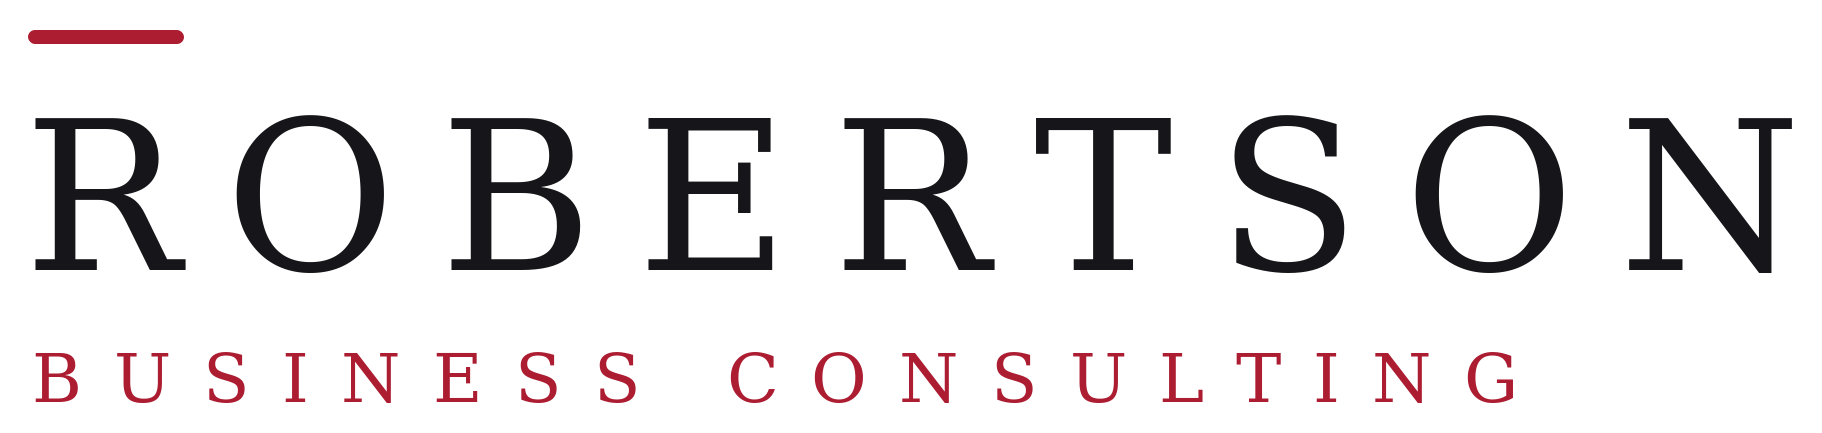
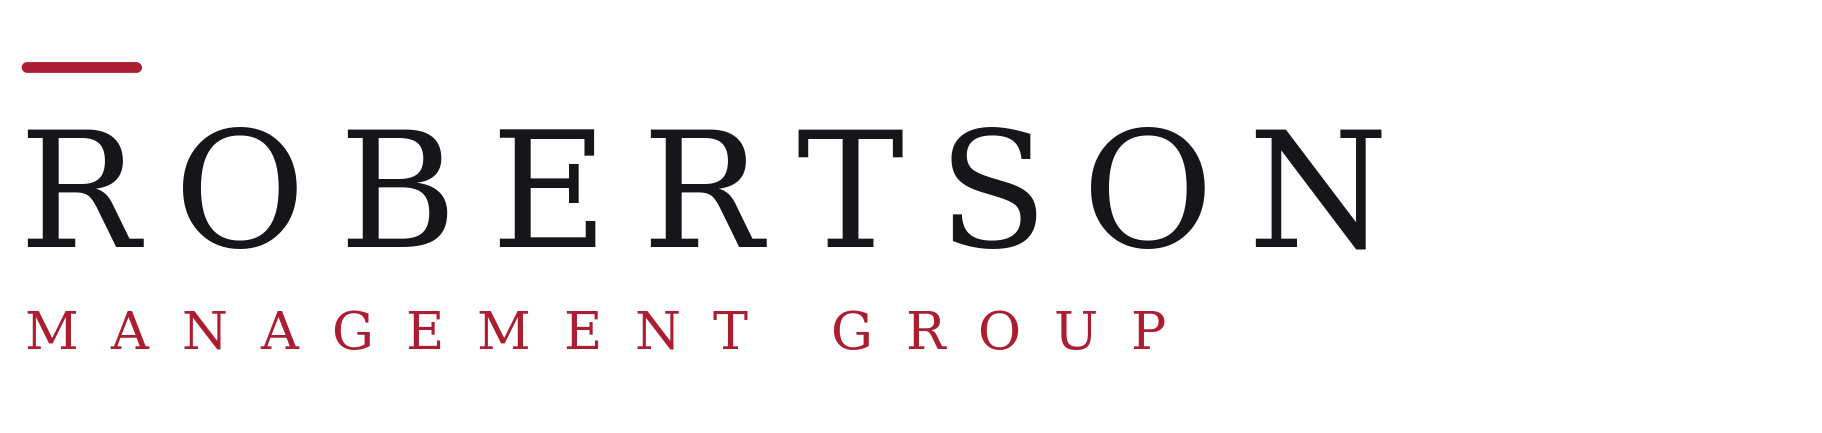
Rebrand to Robertson Management Group; move to robertsongroup.ca

diff --git a/book-a-call.html b/book-a-call.html
@@ -6,9 +6,9 @@ permalink: "/book-a-call.html"
 <head>
 <meta charset="utf-8">
 <meta name="viewport" content="width=device-width, initial-scale=1">
-<title>Book a Discovery Call | Robertson Business Consulting | Metro Vancouver</title>
+<title>Book a Discovery Call | Robertson Management Group | Metro Vancouver</title>
 <meta name="description" content="Book a discovery call with James Robertson. A straight conversation about what's going on in your business and whether I can help. No pitch, no obligation.">
-<link rel="canonical" href="https://www.robertsonconsulting.ca/book-a-call.html">
+<link rel="canonical" href="https://www.robertsongroup.ca/book-a-call.html">
 <link rel="preconnect" href="https://fonts.googleapis.com">
 <link rel="preconnect" href="https://fonts.gstatic.com" crossorigin>
 <link href="https://fonts.googleapis.com/css2?family=DM+Serif+Display:ital@0;1&family=Inter:wght@400;500;600;700&family=Space+Grotesk:wght@500;600;700&display=swap" rel="stylesheet">
@@ -18,8 +18,8 @@ permalink: "/book-a-call.html"
 
 <header class="solid">
   <div class="wrap nav">
-    <a href="index.html" aria-label="Robertson Business Consulting">
-      <svg class="wm" viewBox="0 0 600 96"><rect x="6" y="14" width="11" height="68" rx="5" fill="#AC1D32"/><text x="58" y="74" text-anchor="middle" font-family="'DM Serif Display',serif" font-size="94" fill="#201D1C">R</text><text x="122" y="50" font-family="Georgia,serif" font-size="54" letter-spacing="11.4" fill="#201D1C">ROBERTSON</text><text x="124" y="82" font-family="Georgia,serif" font-size="17.6" letter-spacing="8.3" fill="#AC1D32">BUSINESS CONSULTING</text></svg>
+    <a href="index.html" aria-label="Robertson Management Group">
+      <svg class="wm" viewBox="0 0 600 96"><rect x="6" y="14" width="11" height="68" rx="5" fill="#AC1D32"/><text x="58" y="74" text-anchor="middle" font-family="'DM Serif Display',serif" font-size="94" fill="#201D1C">R</text><text x="122" y="50" font-family="Georgia,serif" font-size="54" letter-spacing="11.4" fill="#201D1C">ROBERTSON</text><text x="124" y="82" font-family="Georgia,serif" font-size="17.6" letter-spacing="11" fill="#AC1D32">MANAGEMENT GROUP</text></svg>
     </a>
     <nav class="links">
       <a class="lnk" href="how-i-work.html">How I Work</a><a class="lnk" href="about.html">About</a><a class="lnk" href="insights/index.html">Insights</a>
@@ -48,7 +48,7 @@ permalink: "/book-a-call.html"
           <li>A sense of what working together would actually look like.</li>
           <li>No pitch, no obligation, and no hard sell at the end.</li>
         </ul>
-        <p style="margin-top:26px;color:var(--ink-soft)">Prefer email first? Reach me at <a href="mailto:james@robertsonconsulting.ca" style="color:var(--crimson);font-weight:600">james@robertsonconsulting.ca</a>.</p>
+        <p style="margin-top:26px;color:var(--ink-soft)">Prefer email first? Reach me at <a href="mailto:james@robertsongroup.ca" style="color:var(--crimson);font-weight:600">james@robertsongroup.ca</a>.</p>
       </div>
       <div class="book-card">
         <h3>Pick a time</h3>
@@ -67,14 +67,14 @@ permalink: "/book-a-call.html"
   <div class="wrap">
     <div class="foot-grid">
       <div>
-        <svg class="wm" viewBox="0 0 600 96" style="height:40px"><rect x="6" y="14" width="11" height="68" rx="5" fill="#AC1D32"/><text x="58" y="74" text-anchor="middle" font-family="'DM Serif Display',serif" font-size="94" fill="#201D1C">R</text><text x="122" y="50" font-family="Georgia,serif" font-size="54" letter-spacing="11.4" fill="#201D1C">ROBERTSON</text><text x="124" y="82" font-family="Georgia,serif" font-size="17.6" letter-spacing="8.3" fill="#AC1D32">BUSINESS CONSULTING</text></svg>
+        <svg class="wm" viewBox="0 0 600 96" style="height:40px"><rect x="6" y="14" width="11" height="68" rx="5" fill="#AC1D32"/><text x="58" y="74" text-anchor="middle" font-family="'DM Serif Display',serif" font-size="94" fill="#201D1C">R</text><text x="122" y="50" font-family="Georgia,serif" font-size="54" letter-spacing="11.4" fill="#201D1C">ROBERTSON</text><text x="124" y="82" font-family="Georgia,serif" font-size="17.6" letter-spacing="11" fill="#AC1D32">MANAGEMENT GROUP</text></svg>
         <p style="margin-top:16px;max-width:30em">Strategy, coaching, and structure for owner-operated companies across Metro Vancouver and the Fraser Valley.</p>
         <p class="tag">Run your business. Instead of it running you.</p>
       </div>
       <div><h4>Explore</h4><ul><li><a href="how-i-work.html">How I Work</a></li><li><a href="about.html">About</a></li><li><a href="insights/index.html">Insights</a></li><li><a href="book-a-call.html">Book a call</a></li></ul></div>
-      <div><h4>Get in touch</h4><ul><li><a href="mailto:james@robertsonconsulting.ca">james@robertsonconsulting.ca</a></li><li>Langley, BC</li><li>Metro Vancouver &amp; Fraser Valley</li></ul></div>
+      <div><h4>Get in touch</h4><ul><li><a href="mailto:james@robertsongroup.ca">james@robertsongroup.ca</a></li><li>Langley, BC</li><li>Metro Vancouver &amp; Fraser Valley</li></ul></div>
     </div>
-    <div class="foot-bottom"><span>&copy; 2026 Robertson Business Consulting. All rights reserved.</span><span>robertsonconsulting.ca</span></div>
+    <div class="foot-bottom"><span>&copy; 2026 Robertson Management Group. All rights reserved.</span><span>robertsongroup.ca</span></div>
   </div>
 </footer>
 

diff --git a/insights/index.html b/insights/index.html
@@ -3,14 +3,14 @@
 <head>
 <meta charset="utf-8">
 <meta name="viewport" content="width=device-width, initial-scale=1">
-<title>Insights | Plain Thinking on Running a Business | Robertson Business Consulting</title>
+<title>Insights | Plain Thinking on Running a Business | Robertson Management Group</title>
 <meta name="description" content="Practical writing on strategy, structure, and the realities of running an owner-operated business. Written from the owner's seat, not the lecture hall.">
 <meta property="og:type" content="website">
-<meta property="og:title" content="Insights | Robertson Business Consulting">
+<meta property="og:title" content="Insights | Robertson Management Group">
 <meta property="og:description" content="Practical writing on strategy, structure, and the realities of running a business.">
 <meta property="og:locale" content="en_CA">
-<meta property="og:url" content="https://www.robertsonconsulting.ca/insights/">
-<link rel="canonical" href="https://www.robertsonconsulting.ca/insights/">
+<meta property="og:url" content="https://www.robertsongroup.ca/insights/">
+<link rel="canonical" href="https://www.robertsongroup.ca/insights/">
 <link rel="preconnect" href="https://fonts.googleapis.com">
 <link rel="preconnect" href="https://fonts.gstatic.com" crossorigin>
 <link href="https://fonts.googleapis.com/css2?family=DM+Serif+Display:ital@0;1&family=Inter:wght@400;500;600;700&family=Space+Grotesk:wght@500;600;700&display=swap" rel="stylesheet">
@@ -20,8 +20,8 @@
 
 <header class="solid">
   <div class="wrap nav">
-    <a href="/" aria-label="Robertson Business Consulting">
-      <svg class="wm" viewBox="0 0 600 96"><rect x="6" y="14" width="11" height="68" rx="5" fill="#AC1D32"/><text x="58" y="74" text-anchor="middle" font-family="'DM Serif Display',serif" font-size="94" fill="#201D1C">R</text><text x="122" y="50" font-family="Georgia,serif" font-size="54" letter-spacing="11.4" fill="#201D1C">ROBERTSON</text><text x="124" y="82" font-family="Georgia,serif" font-size="17.6" letter-spacing="8.3" fill="#AC1D32">BUSINESS CONSULTING</text></svg>
+    <a href="/" aria-label="Robertson Management Group">
+      <svg class="wm" viewBox="0 0 600 96"><rect x="6" y="14" width="11" height="68" rx="5" fill="#AC1D32"/><text x="58" y="74" text-anchor="middle" font-family="'DM Serif Display',serif" font-size="94" fill="#201D1C">R</text><text x="122" y="50" font-family="Georgia,serif" font-size="54" letter-spacing="11.4" fill="#201D1C">ROBERTSON</text><text x="124" y="82" font-family="Georgia,serif" font-size="17.6" letter-spacing="11" fill="#AC1D32">MANAGEMENT GROUP</text></svg>
     </a>
     <nav class="links">
       <a class="lnk" href="/how-i-work.html">How I Work</a><a class="lnk" href="/about.html">About</a><a class="lnk active" href="/insights/">Insights</a>
@@ -65,14 +65,14 @@
   <div class="wrap">
     <div class="foot-grid">
       <div>
-        <svg class="wm" viewBox="0 0 600 96" style="height:40px"><rect x="6" y="14" width="11" height="68" rx="5" fill="#AC1D32"/><text x="58" y="74" text-anchor="middle" font-family="'DM Serif Display',serif" font-size="94" fill="#201D1C">R</text><text x="122" y="50" font-family="Georgia,serif" font-size="54" letter-spacing="11.4" fill="#201D1C">ROBERTSON</text><text x="124" y="82" font-family="Georgia,serif" font-size="17.6" letter-spacing="8.3" fill="#AC1D32">BUSINESS CONSULTING</text></svg>
+        <svg class="wm" viewBox="0 0 600 96" style="height:40px"><rect x="6" y="14" width="11" height="68" rx="5" fill="#AC1D32"/><text x="58" y="74" text-anchor="middle" font-family="'DM Serif Display',serif" font-size="94" fill="#201D1C">R</text><text x="122" y="50" font-family="Georgia,serif" font-size="54" letter-spacing="11.4" fill="#201D1C">ROBERTSON</text><text x="124" y="82" font-family="Georgia,serif" font-size="17.6" letter-spacing="11" fill="#AC1D32">MANAGEMENT GROUP</text></svg>
         <p style="margin-top:16px;max-width:30em">Strategy, coaching, and structure for owner-operated companies across Metro Vancouver and the Fraser Valley.</p>
         <p class="tag">Run your business. Instead of it running you.</p>
       </div>
       <div><h4>Explore</h4><ul><li><a href="/how-i-work.html">How I Work</a></li><li><a href="/about.html">About</a></li><li><a href="/insights/">Insights</a></li><li><a href="/book-a-call.html">Book a call</a></li></ul></div>
-      <div><h4>Get in touch</h4><ul><li><a href="mailto:james@robertsonconsulting.ca">james@robertsonconsulting.ca</a></li><li>Langley, BC</li><li>Metro Vancouver &amp; Fraser Valley</li></ul></div>
+      <div><h4>Get in touch</h4><ul><li><a href="mailto:james@robertsongroup.ca">james@robertsongroup.ca</a></li><li>Langley, BC</li><li>Metro Vancouver &amp; Fraser Valley</li></ul></div>
     </div>
-    <div class="foot-bottom"><span>&copy; 2026 Robertson Business Consulting. All rights reserved.</span><span>robertsonconsulting.ca</span></div>
+    <div class="foot-bottom"><span>&copy; 2026 Robertson Management Group. All rights reserved.</span><span>robertsongroup.ca</span></div>
   </div>
 </footer>
 

diff --git a/how-i-work.html b/how-i-work.html
@@ -6,9 +6,9 @@ permalink: "/how-i-work.html"
 <head>
 <meta charset="utf-8">
 <meta name="viewport" content="width=device-width, initial-scale=1">
-<title>How I Work | Business Operating Framework, Coaching &amp; Fractional Leadership | Robertson Business Consulting</title>
+<title>How I Work | Business Operating Framework, Coaching &amp; Fractional Leadership | Robertson Management Group</title>
 <meta name="description" content="How I work with owner-operated businesses: a custom Business Operating Framework, executive coaching, and fractional leadership. Assessment, strategy, and the structure your business runs on.">
-<link rel="canonical" href="https://www.robertsonconsulting.ca/how-i-work.html">
+<link rel="canonical" href="https://www.robertsongroup.ca/how-i-work.html">
 <link rel="preconnect" href="https://fonts.googleapis.com">
 <link rel="preconnect" href="https://fonts.gstatic.com" crossorigin>
 <link href="https://fonts.googleapis.com/css2?family=DM+Serif+Display:ital@0;1&family=Inter:wght@400;500;600;700&family=Space+Grotesk:wght@500;600;700&display=swap" rel="stylesheet">
@@ -18,8 +18,8 @@ permalink: "/how-i-work.html"
 
 <header class="solid">
   <div class="wrap nav">
-    <a href="index.html" aria-label="Robertson Business Consulting">
-      <svg class="wm" viewBox="0 0 600 96"><rect x="6" y="14" width="11" height="68" rx="5" fill="#AC1D32"/><text x="58" y="74" text-anchor="middle" font-family="'DM Serif Display',serif" font-size="94" fill="#201D1C">R</text><text x="122" y="50" font-family="Georgia,serif" font-size="54" letter-spacing="11.4" fill="#201D1C">ROBERTSON</text><text x="124" y="82" font-family="Georgia,serif" font-size="17.6" letter-spacing="8.3" fill="#AC1D32">BUSINESS CONSULTING</text></svg>
+    <a href="index.html" aria-label="Robertson Management Group">
+      <svg class="wm" viewBox="0 0 600 96"><rect x="6" y="14" width="11" height="68" rx="5" fill="#AC1D32"/><text x="58" y="74" text-anchor="middle" font-family="'DM Serif Display',serif" font-size="94" fill="#201D1C">R</text><text x="122" y="50" font-family="Georgia,serif" font-size="54" letter-spacing="11.4" fill="#201D1C">ROBERTSON</text><text x="124" y="82" font-family="Georgia,serif" font-size="17.6" letter-spacing="11" fill="#AC1D32">MANAGEMENT GROUP</text></svg>
     </a>
     <nav class="links">
       <a class="lnk active" href="how-i-work.html">How I Work</a><a class="lnk" href="about.html">About</a><a class="lnk" href="insights/index.html">Insights</a>
@@ -114,14 +114,14 @@ permalink: "/how-i-work.html"
   <div class="wrap">
     <div class="foot-grid">
       <div>
-        <svg class="wm" viewBox="0 0 600 96" style="height:40px"><rect x="6" y="14" width="11" height="68" rx="5" fill="#AC1D32"/><text x="58" y="74" text-anchor="middle" font-family="'DM Serif Display',serif" font-size="94" fill="#201D1C">R</text><text x="122" y="50" font-family="Georgia,serif" font-size="54" letter-spacing="11.4" fill="#201D1C">ROBERTSON</text><text x="124" y="82" font-family="Georgia,serif" font-size="17.6" letter-spacing="8.3" fill="#AC1D32">BUSINESS CONSULTING</text></svg>
+        <svg class="wm" viewBox="0 0 600 96" style="height:40px"><rect x="6" y="14" width="11" height="68" rx="5" fill="#AC1D32"/><text x="58" y="74" text-anchor="middle" font-family="'DM Serif Display',serif" font-size="94" fill="#201D1C">R</text><text x="122" y="50" font-family="Georgia,serif" font-size="54" letter-spacing="11.4" fill="#201D1C">ROBERTSON</text><text x="124" y="82" font-family="Georgia,serif" font-size="17.6" letter-spacing="11" fill="#AC1D32">MANAGEMENT GROUP</text></svg>
         <p style="margin-top:16px;max-width:30em">Strategy, coaching, and structure for owner-operated companies across Metro Vancouver and the Fraser Valley.</p>
         <p class="tag">Run your business. Instead of it running you.</p>
       </div>
       <div><h4>Explore</h4><ul><li><a href="how-i-work.html">How I Work</a></li><li><a href="about.html">About</a></li><li><a href="insights/index.html">Insights</a></li><li><a href="book-a-call.html">Book a call</a></li></ul></div>
-      <div><h4>Get in touch</h4><ul><li><a href="mailto:james@robertsonconsulting.ca">james@robertsonconsulting.ca</a></li><li>Langley, BC</li><li>Metro Vancouver &amp; Fraser Valley</li></ul></div>
+      <div><h4>Get in touch</h4><ul><li><a href="mailto:james@robertsongroup.ca">james@robertsongroup.ca</a></li><li>Langley, BC</li><li>Metro Vancouver &amp; Fraser Valley</li></ul></div>
     </div>
-    <div class="foot-bottom"><span>&copy; 2026 Robertson Business Consulting. All rights reserved.</span><span>robertsonconsulting.ca</span></div>
+    <div class="foot-bottom"><span>&copy; 2026 Robertson Management Group. All rights reserved.</span><span>robertsongroup.ca</span></div>
   </div>
 </footer>
 

diff --git a/_includes/post.html b/_includes/post.html
@@ -3,15 +3,15 @@
 <head>
 <meta charset="utf-8">
 <meta name="viewport" content="width=device-width, initial-scale=1">
-<title>{{ title }} | Robertson Business Consulting</title>
+<title>{{ title }} | Robertson Management Group</title>
 <meta name="description" content="{{ excerpt }}">
 <meta property="og:type" content="article">
 <meta property="og:title" content="{{ title }}">
 <meta property="og:description" content="{{ excerpt }}">
 <meta property="og:locale" content="en_CA">
-<meta property="og:url" content="https://www.robertsonconsulting.ca{{ page.url }}">
+<meta property="og:url" content="https://www.robertsongroup.ca{{ page.url }}">
 <meta property="article:published_time" content="{{ page.date }}">
-<link rel="canonical" href="https://www.robertsonconsulting.ca{{ page.url }}">
+<link rel="canonical" href="https://www.robertsongroup.ca{{ page.url }}">
 <link rel="preconnect" href="https://fonts.googleapis.com">
 <link rel="preconnect" href="https://fonts.gstatic.com" crossorigin>
 <link href="https://fonts.googleapis.com/css2?family=DM+Serif+Display:ital@0;1&family=Inter:wght@400;500;600;700&family=Space+Grotesk:wght@500;600;700&display=swap" rel="stylesheet">
@@ -21,8 +21,8 @@
 
 <header class="solid">
   <div class="wrap nav">
-    <a href="/" aria-label="Robertson Business Consulting">
-      <svg class="wm" viewBox="0 0 600 96"><rect x="6" y="14" width="11" height="68" rx="5" fill="#AC1D32"/><text x="58" y="74" text-anchor="middle" font-family="'DM Serif Display',serif" font-size="94" fill="#201D1C">R</text><text x="122" y="50" font-family="Georgia,serif" font-size="54" letter-spacing="11.4" fill="#201D1C">ROBERTSON</text><text x="124" y="82" font-family="Georgia,serif" font-size="17.6" letter-spacing="8.3" fill="#AC1D32">BUSINESS CONSULTING</text></svg>
+    <a href="/" aria-label="Robertson Management Group">
+      <svg class="wm" viewBox="0 0 600 96"><rect x="6" y="14" width="11" height="68" rx="5" fill="#AC1D32"/><text x="58" y="74" text-anchor="middle" font-family="'DM Serif Display',serif" font-size="94" fill="#201D1C">R</text><text x="122" y="50" font-family="Georgia,serif" font-size="54" letter-spacing="11.4" fill="#201D1C">ROBERTSON</text><text x="124" y="82" font-family="Georgia,serif" font-size="17.6" letter-spacing="11" fill="#AC1D32">MANAGEMENT GROUP</text></svg>
     </a>
     <nav class="links">
       <a class="lnk" href="/how-i-work.html">How I Work</a><a class="lnk" href="/about.html">About</a><a class="lnk active" href="/insights/">Insights</a>
@@ -49,14 +49,14 @@
   <div class="wrap">
     <div class="foot-grid">
       <div>
-        <svg class="wm" viewBox="0 0 600 96" style="height:40px"><rect x="6" y="14" width="11" height="68" rx="5" fill="#AC1D32"/><text x="58" y="74" text-anchor="middle" font-family="'DM Serif Display',serif" font-size="94" fill="#201D1C">R</text><text x="122" y="50" font-family="Georgia,serif" font-size="54" letter-spacing="11.4" fill="#201D1C">ROBERTSON</text><text x="124" y="82" font-family="Georgia,serif" font-size="17.6" letter-spacing="8.3" fill="#AC1D32">BUSINESS CONSULTING</text></svg>
+        <svg class="wm" viewBox="0 0 600 96" style="height:40px"><rect x="6" y="14" width="11" height="68" rx="5" fill="#AC1D32"/><text x="58" y="74" text-anchor="middle" font-family="'DM Serif Display',serif" font-size="94" fill="#201D1C">R</text><text x="122" y="50" font-family="Georgia,serif" font-size="54" letter-spacing="11.4" fill="#201D1C">ROBERTSON</text><text x="124" y="82" font-family="Georgia,serif" font-size="17.6" letter-spacing="11" fill="#AC1D32">MANAGEMENT GROUP</text></svg>
         <p style="margin-top:16px;max-width:30em">Strategy, coaching, and structure for owner-operated companies across Metro Vancouver and the Fraser Valley.</p>
         <p class="tag">Run your business. Instead of it running you.</p>
       </div>
       <div><h4>Explore</h4><ul><li><a href="/how-i-work.html">How I Work</a></li><li><a href="/about.html">About</a></li><li><a href="/insights/">Insights</a></li><li><a href="/book-a-call.html">Book a call</a></li></ul></div>
-      <div><h4>Get in touch</h4><ul><li><a href="mailto:james@robertsonconsulting.ca">james@robertsonconsulting.ca</a></li><li>Langley, BC</li><li>Metro Vancouver &amp; Fraser Valley</li></ul></div>
+      <div><h4>Get in touch</h4><ul><li><a href="mailto:james@robertsongroup.ca">james@robertsongroup.ca</a></li><li>Langley, BC</li><li>Metro Vancouver &amp; Fraser Valley</li></ul></div>
     </div>
-    <div class="foot-bottom"><span>&copy; 2026 Robertson Business Consulting. All rights reserved.</span><span>robertsonconsulting.ca</span></div>
+    <div class="foot-bottom"><span>&copy; 2026 Robertson Management Group. All rights reserved.</span><span>robertsongroup.ca</span></div>
   </div>
 </footer>
 

diff --git a/index.html b/index.html
@@ -3,9 +3,9 @@
 <head>
 <meta charset="utf-8">
 <meta name="viewport" content="width=device-width, initial-scale=1">
-<title>Robertson Business Consulting | Business Strategy &amp; Coaching for Owner-Operated Companies | Metro Vancouver</title>
+<title>Robertson Management Group | Business Strategy &amp; Coaching for Owner-Operated Companies | Metro Vancouver</title>
 <meta name="description" content="Business strategy, coaching, and structure for owner-operated companies in Metro Vancouver, Langley, and the Fraser Valley. Led by an owner who built and sold a business through the hardest years a company can face.">
-<link rel="canonical" href="https://www.robertsonconsulting.ca/">
+<link rel="canonical" href="https://www.robertsongroup.ca/">
 <link rel="preconnect" href="https://fonts.googleapis.com">
 <link rel="preconnect" href="https://fonts.gstatic.com" crossorigin>
 <link href="https://fonts.googleapis.com/css2?family=DM+Serif+Display:ital@0;1&family=Inter:wght@400;500;600;700&family=Space+Grotesk:wght@500;600;700&display=swap" rel="stylesheet">
@@ -15,8 +15,8 @@
 
 <header class="over">
   <div class="wrap nav">
-    <a href="index.html" aria-label="Robertson Business Consulting">
-      <svg class="wm" viewBox="0 0 600 96"><rect x="6" y="14" width="11" height="68" rx="5" fill="#AC1D32"/><text x="58" y="74" text-anchor="middle" font-family="'DM Serif Display',serif" font-size="94" fill="#ffffff">R</text><text x="122" y="50" font-family="Georgia,serif" font-size="54" letter-spacing="11.4" fill="#ffffff">ROBERTSON</text><text x="124" y="82" font-family="Georgia,serif" font-size="17.6" letter-spacing="8.3" fill="#E8B9C0">BUSINESS CONSULTING</text></svg>
+    <a href="index.html" aria-label="Robertson Management Group">
+      <svg class="wm" viewBox="0 0 600 96"><rect x="6" y="14" width="11" height="68" rx="5" fill="#AC1D32"/><text x="58" y="74" text-anchor="middle" font-family="'DM Serif Display',serif" font-size="94" fill="#ffffff">R</text><text x="122" y="50" font-family="Georgia,serif" font-size="54" letter-spacing="11.4" fill="#ffffff">ROBERTSON</text><text x="124" y="82" font-family="Georgia,serif" font-size="17.6" letter-spacing="11" fill="#E8B9C0">MANAGEMENT GROUP</text></svg>
     </a>
     <nav class="links">
       <a class="lnk" href="how-i-work.html">How I Work</a><a class="lnk" href="about.html">About</a><a class="lnk" href="insights/index.html">Insights</a>
@@ -166,14 +166,14 @@
   <div class="wrap">
     <div class="foot-grid">
       <div>
-        <svg class="wm" viewBox="0 0 600 96" style="height:40px"><rect x="6" y="14" width="11" height="68" rx="5" fill="#AC1D32"/><text x="58" y="74" text-anchor="middle" font-family="'DM Serif Display',serif" font-size="94" fill="#201D1C">R</text><text x="122" y="50" font-family="Georgia,serif" font-size="54" letter-spacing="11.4" fill="#201D1C">ROBERTSON</text><text x="124" y="82" font-family="Georgia,serif" font-size="17.6" letter-spacing="8.3" fill="#AC1D32">BUSINESS CONSULTING</text></svg>
+        <svg class="wm" viewBox="0 0 600 96" style="height:40px"><rect x="6" y="14" width="11" height="68" rx="5" fill="#AC1D32"/><text x="58" y="74" text-anchor="middle" font-family="'DM Serif Display',serif" font-size="94" fill="#201D1C">R</text><text x="122" y="50" font-family="Georgia,serif" font-size="54" letter-spacing="11.4" fill="#201D1C">ROBERTSON</text><text x="124" y="82" font-family="Georgia,serif" font-size="17.6" letter-spacing="11" fill="#AC1D32">MANAGEMENT GROUP</text></svg>
         <p style="margin-top:16px;max-width:30em">Strategy, coaching, and structure for owner-operated companies across Metro Vancouver and the Fraser Valley.</p>
         <p class="tag">Run your business. Instead of it running you.</p>
       </div>
       <div><h4>Explore</h4><ul><li><a href="how-i-work.html">How I Work</a></li><li><a href="about.html">About</a></li><li><a href="insights/index.html">Insights</a></li><li><a href="book-a-call.html">Book a call</a></li></ul></div>
-      <div><h4>Get in touch</h4><ul><li><a href="mailto:james@robertsonconsulting.ca">james@robertsonconsulting.ca</a></li><li>Langley, BC</li><li>Metro Vancouver &amp; Fraser Valley</li></ul></div>
+      <div><h4>Get in touch</h4><ul><li><a href="mailto:james@robertsongroup.ca">james@robertsongroup.ca</a></li><li>Langley, BC</li><li>Metro Vancouver &amp; Fraser Valley</li></ul></div>
     </div>
-    <div class="foot-bottom"><span>&copy; 2026 Robertson Business Consulting. All rights reserved.</span><span>robertsonconsulting.ca</span></div>
+    <div class="foot-bottom"><span>&copy; 2026 Robertson Management Group. All rights reserved.</span><span>robertsongroup.ca</span></div>
   </div>
 </footer>
 

diff --git a/about.html b/about.html
@@ -8,7 +8,7 @@ permalink: "/about.html"
 <meta name="viewport" content="width=device-width, initial-scale=1">
 <title>About James Robertson | Owner-Operator Turned Business Consultant | Metro Vancouver</title>
 <meta name="description" content="James Robertson bought, rebuilt, ran, and sold a company through a decade that included a pandemic. Now he helps owner-operated businesses in Metro Vancouver build the structure to grow.">
-<link rel="canonical" href="https://www.robertsonconsulting.ca/about.html">
+<link rel="canonical" href="https://www.robertsongroup.ca/about.html">
 <link rel="preconnect" href="https://fonts.googleapis.com">
 <link rel="preconnect" href="https://fonts.gstatic.com" crossorigin>
 <link href="https://fonts.googleapis.com/css2?family=DM+Serif+Display:ital@0;1&family=Inter:wght@400;500;600;700&family=Space+Grotesk:wght@500;600;700&display=swap" rel="stylesheet">
@@ -18,8 +18,8 @@ permalink: "/about.html"
 
 <header class="solid">
   <div class="wrap nav">
-    <a href="index.html" aria-label="Robertson Business Consulting">
-      <svg class="wm" viewBox="0 0 600 96"><rect x="6" y="14" width="11" height="68" rx="5" fill="#AC1D32"/><text x="58" y="74" text-anchor="middle" font-family="'DM Serif Display',serif" font-size="94" fill="#201D1C">R</text><text x="122" y="50" font-family="Georgia,serif" font-size="54" letter-spacing="11.4" fill="#201D1C">ROBERTSON</text><text x="124" y="82" font-family="Georgia,serif" font-size="17.6" letter-spacing="8.3" fill="#AC1D32">BUSINESS CONSULTING</text></svg>
+    <a href="index.html" aria-label="Robertson Management Group">
+      <svg class="wm" viewBox="0 0 600 96"><rect x="6" y="14" width="11" height="68" rx="5" fill="#AC1D32"/><text x="58" y="74" text-anchor="middle" font-family="'DM Serif Display',serif" font-size="94" fill="#201D1C">R</text><text x="122" y="50" font-family="Georgia,serif" font-size="54" letter-spacing="11.4" fill="#201D1C">ROBERTSON</text><text x="124" y="82" font-family="Georgia,serif" font-size="17.6" letter-spacing="11" fill="#AC1D32">MANAGEMENT GROUP</text></svg>
     </a>
     <nav class="links">
       <a class="lnk" href="how-i-work.html">How I Work</a><a class="lnk active" href="about.html">About</a><a class="lnk" href="insights/index.html">Insights</a>
@@ -85,14 +85,14 @@ permalink: "/about.html"
   <div class="wrap">
     <div class="foot-grid">
       <div>
-        <svg class="wm" viewBox="0 0 600 96" style="height:40px"><rect x="6" y="14" width="11" height="68" rx="5" fill="#AC1D32"/><text x="58" y="74" text-anchor="middle" font-family="'DM Serif Display',serif" font-size="94" fill="#201D1C">R</text><text x="122" y="50" font-family="Georgia,serif" font-size="54" letter-spacing="11.4" fill="#201D1C">ROBERTSON</text><text x="124" y="82" font-family="Georgia,serif" font-size="17.6" letter-spacing="8.3" fill="#AC1D32">BUSINESS CONSULTING</text></svg>
+        <svg class="wm" viewBox="0 0 600 96" style="height:40px"><rect x="6" y="14" width="11" height="68" rx="5" fill="#AC1D32"/><text x="58" y="74" text-anchor="middle" font-family="'DM Serif Display',serif" font-size="94" fill="#201D1C">R</text><text x="122" y="50" font-family="Georgia,serif" font-size="54" letter-spacing="11.4" fill="#201D1C">ROBERTSON</text><text x="124" y="82" font-family="Georgia,serif" font-size="17.6" letter-spacing="11" fill="#AC1D32">MANAGEMENT GROUP</text></svg>
         <p style="margin-top:16px;max-width:30em">Strategy, coaching, and structure for owner-operated companies across Metro Vancouver and the Fraser Valley.</p>
         <p class="tag">Run your business. Instead of it running you.</p>
       </div>
       <div><h4>Explore</h4><ul><li><a href="how-i-work.html">How I Work</a></li><li><a href="about.html">About</a></li><li><a href="insights/index.html">Insights</a></li><li><a href="book-a-call.html">Book a call</a></li></ul></div>
-      <div><h4>Get in touch</h4><ul><li><a href="mailto:james@robertsonconsulting.ca">james@robertsonconsulting.ca</a></li><li>Langley, BC</li><li>Metro Vancouver &amp; Fraser Valley</li></ul></div>
+      <div><h4>Get in touch</h4><ul><li><a href="mailto:james@robertsongroup.ca">james@robertsongroup.ca</a></li><li>Langley, BC</li><li>Metro Vancouver &amp; Fraser Valley</li></ul></div>
     </div>
-    <div class="foot-bottom"><span>&copy; 2026 Robertson Business Consulting. All rights reserved.</span><span>robertsonconsulting.ca</span></div>
+    <div class="foot-bottom"><span>&copy; 2026 Robertson Management Group. All rights reserved.</span><span>robertsongroup.ca</span></div>
   </div>
 </footer>
 

diff --git a/start.html b/start.html
@@ -3,10 +3,10 @@
 <head>
 <meta charset="utf-8">
 <meta name="viewport" content="width=device-width, initial-scale=1">
-<title>3 things you can fix this week | Robertson Business Consulting</title>
+<title>3 things you can fix this week | Robertson Management Group</title>
 <meta name="description" content="A free, practical guide for owner-run businesses: three things you can start fixing this week, and what each one tells you about your business.">
 <meta name="robots" content="index,follow">
-<link rel="canonical" href="https://www.robertsonconsulting.ca/start.html">
+<link rel="canonical" href="https://www.robertsongroup.ca/start.html">
 <meta property="og:title" content="3 things you can fix this week">
 <meta property="og:description" content="A free, practical guide for owner-run businesses. No email required.">
 <meta property="og:type" content="website">
@@ -100,7 +100,7 @@ footer.site a{color:#fff;text-decoration:none;}
 
 <header class="site">
   <div class="wrap">
-    <a href="/" class="logo-link"><img src="/images/robertson_wordmark.png" alt="Robertson Business Consulting"></a>
+    <a href="/" class="logo-link"><img src="/images/robertson_wordmark.png" alt="Robertson Management Group"></a>
     <div class="headright">
       <a class="mainlink" href="/">Visit the main site →</a>
       <span class="loc">Vancouver, BC</span>
@@ -182,7 +182,7 @@ footer.site a{color:#fff;text-decoration:none;}
       </form>
       <div class="direct">
         <p class="lbl">Direct</p>
-        <p><a href="mailto:james@robertsonconsulting.ca">james@robertsonconsulting.ca</a></p>
+        <p><a href="mailto:james@robertsongroup.ca">james@robertsongroup.ca</a></p>
         <p><a href="tel:+17788366167">778-836-6167</a></p>
         <p>Vancouver, BC</p>
       </div>
@@ -192,9 +192,9 @@ footer.site a{color:#fff;text-decoration:none;}
 
 <footer class="site">
   <div class="wrap">
-    <img src="/images/robertson_wordmark_white.png" alt="Robertson Business Consulting">
+    <img src="/images/robertson_wordmark_white.png" alt="Robertson Management Group">
     <div class="fcontact">
-      <a href="https://robertsonconsulting.ca">robertsonconsulting.ca</a><br>
+      <a href="https://robertsongroup.ca">robertsongroup.ca</a><br>
       James Robertson, MBA &nbsp;·&nbsp; Principal
     </div>
   </div>

diff --git a/blog/index.html b/blog/index.html
@@ -112,7 +112,7 @@
     <a href="/blog/">Insights</a>
     <a href="/#contact">Contact</a>
   </div>
-  <div class="footer-note">Management Consulting &middot; Strategic Planning &middot; Business Coaching<br>&copy; 2025 Robertson Management Group Ltd. &middot; Metro Vancouver, BC</div>
+  <div class="footer-note">Management Consulting &middot; Strategic Planning &middot; Business Coaching<br>&copy; 2026 Robertson Management Group Inc. &middot; Metro Vancouver, BC</div>
 </footer>
 </body>
 </html>

diff --git a/styles.css b/styles.css
@@ -1,4 +1,4 @@
-/* Robertson Business Consulting — Website 3.0 system */
+/* Robertson Management Group — Website 3.0 system */
 :root{
   --crimson:#AC1D32;--crimson-deep:#8E1426;--red-bright:#C9233B;
   --blue:#1F6FB2;--blue-deep:#195E97;

diff --git a/script.js b/script.js
@@ -1,4 +1,4 @@
-// Robertson Business Consulting — scroll reveal
+// Robertson Management Group — scroll reveal
 (function () {
   var t = document.querySelectorAll('.svc, .reveal');
   if (!t.length) return;
